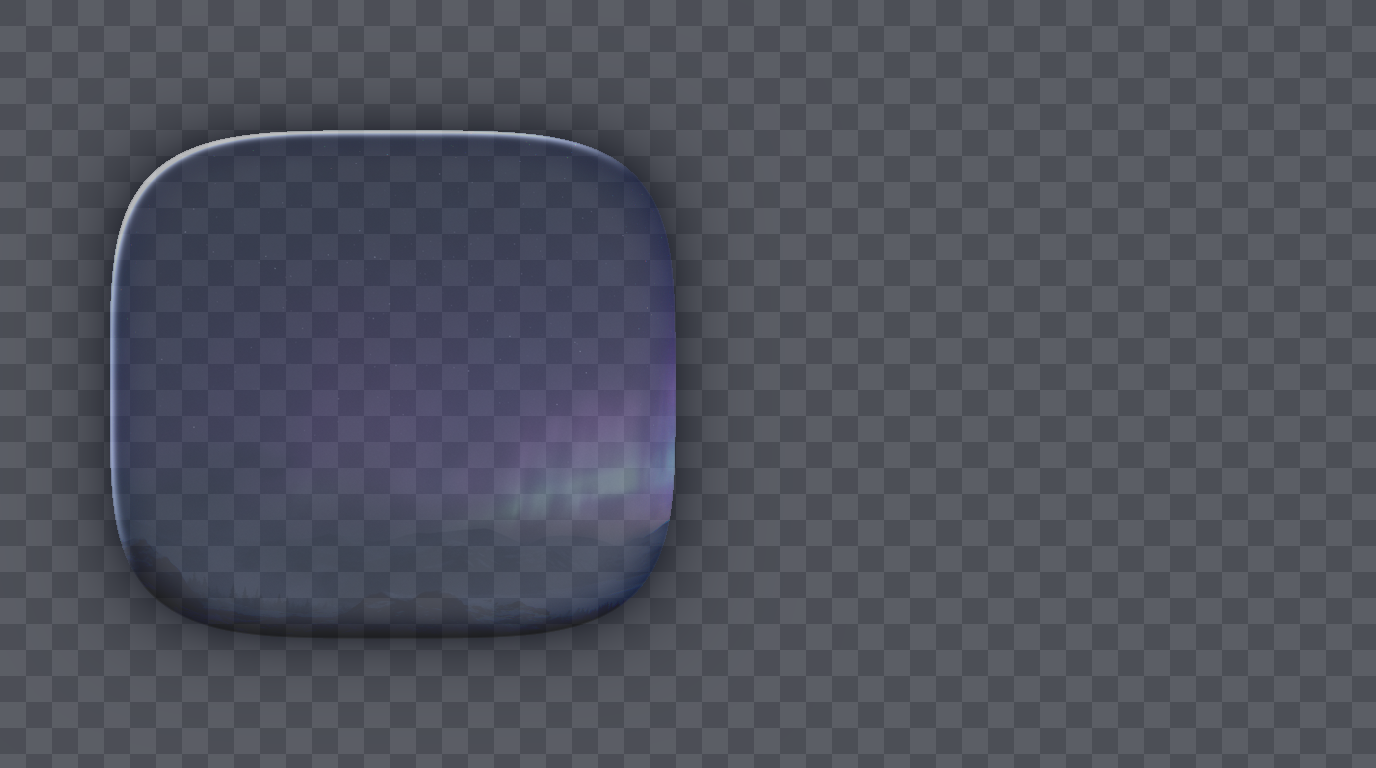
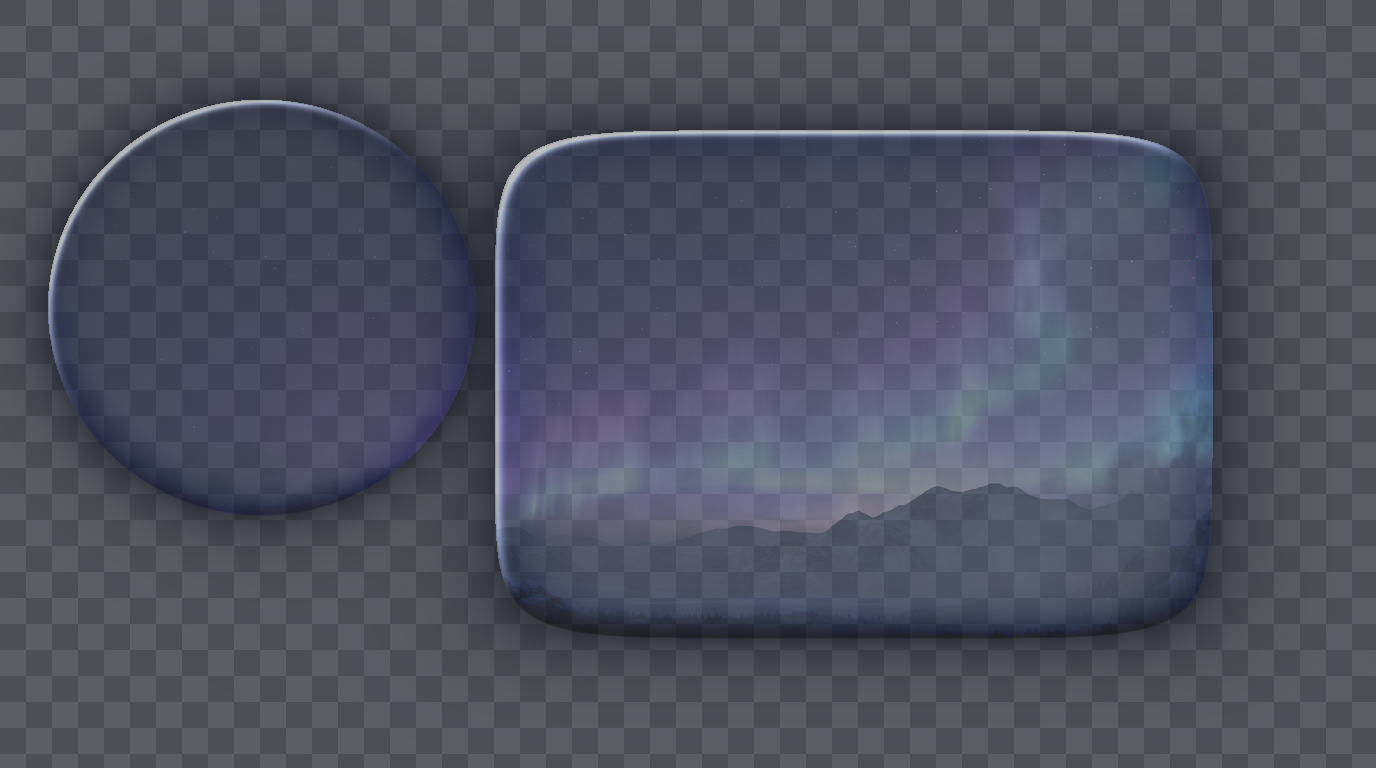
Вылет при входе в мир и стекло большего размера под новую раскладку
Вылет: найдена настоящая причина, а не «защита от всего».
  - RenderResources даёт ОДИН общий буфер на все типы отрисовки, а
    ParticleSystem за кадр запрашивал до шести разных текстур и не закрывал
    ни одной порции. В меню частиц нет — поэтому падало именно в мире.
    Теперь каждая форма закрывается своей порцией endBatch(type).
  - WorldRenderDispatcher не был защищён вовсе (в отличие от миксинов),
    поэтому любое исключение уходило в событие Fabric и роняло кадр.
    Теперь стек матриц возвращается в finally, порция закрывается всегда,
    а буфер при сбое выбрасывается, чтобы следующий кадр начал с чистого.
  - Повторяющийся сбой не забивает журнал: после 12 раз подряд эффекты
    в мире отключаются, о чём пишется один раз.

Стекло (tools/make_glass.py): две формы вместо одной, обе крупнее.
  Слева — овал под логотип (суперэллипс n=2, то есть чистый эллипс),
  по центру — скруглённый прямоугольник под все надписи (n=7).
  Преломление по-прежнему считается по полю расстояний: 0.000 в середине
  против 0.97 у кромки, прозрачность 0.26-0.28 в середине против 0.48-0.50
  у кромки.

Changed region(s): [[0.0312, 0.125, 0.9062, 0.8438], [0.0625, 0.1562, 0.1562, 0.2812]]

diff --git a/aurora/tools/make_glass.py b/aurora/tools/make_glass.py
@@ -23,12 +23,16 @@ from PIL import Image
 
 W, H = 1376, 768
 
-# ── геометрия пластины ──────────────────────────────────────────────
-CX, CY = 0.285 * W, 0.500 * H          # центр: слева, там будет заголовок
-AX, AY = 0.205 * W, 0.330 * H          # полуоси
-SUPER = 4.0                            # 2 = эллипс, 4 = мягкий «сквиркл»,
-                                       # больше 6 — уже прямоугольник.
-                                       # Берём 4: формы органичные, без углов.
+# ── геометрия: две стеклянные формы ─────────────────────────────────
+# Слева — овал под логотип (SUPER=2 ровно эллипс, «более овальная форма»),
+# по центру — крупный скруглённый прямоугольник под все надписи.
+# Обе заметно больше прежних: так и просили.
+SHAPES = [
+    dict(name="logo",  cx=0.190 * W, cy=0.400 * H, ax=0.155 * W, ay=0.270 * H,
+         super_n=2.0, bevel=46.0, strength=52.0, base=0.26, edge=0.58),
+    dict(name="panel", cx=0.620 * W, cy=0.500 * H, ax=0.260 * W, ay=0.330 * H,
+         super_n=7.0, bevel=54.0, strength=58.0, base=0.28, edge=0.62),
+]
 
 BEVEL = 40.0        # толщина кромки, где стекло загибается
 STRENGTH = 46.0     # сила преломления в пикселях у самой кромки
@@ -41,7 +45,7 @@ GLOW = 13.0         # мягкое свечение сразу за ободко
 SHADOW = 26.0       # размах внешней тени
 
 
-def squircle_sdf(x, y, cx, cy, ax, ay, n=SUPER):
+def squircle_sdf(x, y, cx, cy, ax, ay, n=4.0):
     """Поле расстояний: <0 внутри, 0 на кромке, >0 снаружи."""
     u = np.abs((x - cx) / ax)
     v = np.abs((y - cy) / ay)
@@ -66,68 +70,66 @@ def sample(bg, xs, ys):
     return bg[yi, xi, :]
 
 
-def glass_over(bg, offsets_scale=1.0):
-    """Положить стеклянную пластину на фон bg (float 0..1). Возвращает
-    итоговую картинку и отдельный слой стекла с прозрачностью."""
-    yy, xx = np.mgrid[0:H, 0:W].astype(np.float64)
-    d = squircle_sdf(xx, yy, CX, CY, AX, AY)
+def glass_shape(bg, shape):
+    """Одна стеклянная форма поверх фона. Возвращает её цвет и прозрачность."""
+    cx, cy = shape["cx"], shape["cy"]
+    ax, ay = shape["ax"], shape["ay"]
+    bevel, strength = shape["bevel"], shape["strength"]
+    base_alpha, edge_alpha = shape["base"], shape["edge"]
 
-    # Нормаль к поверхности: градиент поля расстояний.
+    yy, xx = np.mgrid[0:H, 0:W].astype(np.float64)
+    d = squircle_sdf(xx, yy, cx, cy, ax, ay, shape["super_n"])
+
     gy, gx = np.gradient(d)
     nx, ny = normalize(gx, gy)
+    edge = np.clip((bevel + d) / bevel, 0.0, 1.0) ** 1.7
 
-    # Вес кромки: 1 на самом краю, 0 в глубине плоской середины.
-    edge = np.clip((BEVEL + d) / BEVEL, 0.0, 1.0) ** 1.7
+    off_x = nx * edge * strength
+    off_y = ny * edge * strength
 
-    off_x = nx * edge * STRENGTH * offsets_scale
-    off_y = ny * edge * STRENGTH * offsets_scale
-
-    # Преломление: каждый канал со своим сдвигом — отсюда цветная кайма.
     out = np.zeros_like(bg)
     for channel, spread in enumerate((1.0 + CHROMA, 1.0, 1.0 - CHROMA)):
         out[:, :, channel] = sample(bg, xx + off_x * spread,
                                     yy + off_y * spread)[:, :, channel]
 
-    # Прозрачность: у кромки стекло плотнее, в середине — чище.
-    inside = np.clip(-d / 1.6 + 0.5, 0.0, 1.0)          # сглаженная маска
-    alpha = (BASE_ALPHA + (EDGE_ALPHA - BASE_ALPHA) * edge) * inside
+    inside = np.clip(-d / 1.6 + 0.5, 0.0, 1.0)
+    alpha = (base_alpha + (edge_alpha - base_alpha) * edge) * inside
 
-    # Мягкий подсвет и лёгкая подмесь цвета — стекло не бывает нейтральным.
     out[:, :, 0] = out[:, :, 0] * 1.02 + 0.020
     out[:, :, 1] = out[:, :, 1] * 1.02 + 0.026
     out[:, :, 2] = out[:, :, 2] * 1.05 + 0.062
 
-    # Тонкий светлый ободок там, где кромка смотрит на свет (сверху-слева).
     light_x, light_y = -0.62, -0.78
     facing = np.clip(nx * light_x + ny * light_y, 0.0, 1.0) ** 1.6
     rim = np.exp(-(d ** 2) / (2.0 * RIM_SIGMA ** 2)) * facing
     out += rim[:, :, None] * np.array([0.85, 0.90, 1.00]) * RIM_GAIN
-    # Сразу за ободком, внутрь, — мягкое свечение: так у стекла читается
-    # толщина, а не просто нарисованная линия.
     glow = np.exp(d / GLOW) * (d < 0) * facing * 0.22
     out += glow[:, :, None]
 
-    # Внутренняя тень снизу: толща стекла там толще.
     lower = np.clip(ny, 0.0, 1.0) ** 1.3 * edge
     out -= (lower * 0.16)[:, :, None]
 
-    # Диагональный блик — одна мягкая полоса, не «пластиковая» плёнка.
     sheen = np.clip((xx / W + yy / H) * 1.35 - 0.55, 0.0, 1.0)
     sheen = (sheen ** 3) * (1.0 - edge) * 0.16
     out += sheen[:, :, None]
-
     out = np.clip(out, 0.0, 1.0)
 
-    # Внешняя тень: стекло висит над фоном.
     shadow = np.exp(-np.clip(d, 0.0, None) / SHADOW) * (1.0 - inside) * 0.42
     alpha_out = np.clip(alpha + shadow, 0.0, 1.0)
-    shadow_rgb = np.array([0.02, 0.03, 0.07])
+    rgb = np.where(alpha[:, :, None] > 1e-4, out,
+                   np.array([0.02, 0.03, 0.07]))
+    return rgb, alpha_out
 
-    glass_rgb = np.where(alpha[:, :, None] > 1e-4,
-                         out, shadow_rgb)
 
-    composed = bg * (1.0 - alpha_out[:, :, None]) + glass_rgb * alpha_out[:, :, None]
-    return np.clip(composed, 0.0, 1.0), glass_rgb, alpha_out, d, edge
+def glass_over(bg):
+    """Все формы поверх фона. Возвращает итог и слои по отдельности."""
+    composed = bg.copy()
+    layers = []
+    for shape in SHAPES:
+        rgb, alpha = glass_shape(bg, shape)
+        composed = composed * (1.0 - alpha[:, :, None]) + rgb * alpha[:, :, None]
+        layers.append((shape["name"], rgb, alpha))
+    return np.clip(composed, 0.0, 1.0), layers
 
 
 def save(array, path, alpha=None):
@@ -143,43 +145,35 @@ def main():
     base = Image.open("/tmp/menu_base.png").convert("RGB").resize((W, H),
                                                                   Image.LANCZOS)
     bg = np.asarray(base, dtype=np.float64) / 255.0
-
-    composed, glass_rgb, glass_alpha, d, edge = glass_over(bg)
-
-    # 1) Как просил пользователь: серый фон, а поверх — стекло, у которого
-    #    видно бока и прозрачность. Именно так прозрачность и проверяют.
-    grey = np.full((H, W, 3), 0.0)
-    yy, xx = np.mgrid[0:H, 0:W].astype(np.float64)
-    # мягкая серая «студийная» подложка с лёгкой шахматкой: по ней сразу
-    # видно, что стекло и правда прозрачное, а не серое.
-    checker = (((xx // 26).astype(int) + (yy // 26).astype(int)) % 2) * 0.06
-    grey[:, :, 0] = 0.30 + checker
-    grey[:, :, 1] = 0.31 + checker
-    grey[:, :, 2] = 0.34 + checker
-    grey_composed = grey * (1.0 - glass_alpha[:, :, None]) + \
-        glass_rgb * glass_alpha[:, :, None]
+    composed, layers = glass_over(bg)
 
[1 lines of base64/hex data omitted]
-    save(composed, gui + "/menu_backdrop.png")
-    save(glass_rgb, gui + "/menu_glass.png", alpha=glass_alpha)
-    save(grey_composed, "/home/user/aurora/docs/menu-glass-preview.png")
+    save(bg, gui + "/menu_backdrop.png")
+    for name, rgb, alpha in layers:
+        save(rgb, gui + "/menu_glass_" + name + ".png", alpha=alpha)
 
-    # ── проверка числами ────────────────────────────────────────────
-    inside_mask = d < -6
-    print("=== проверка стекла ===")
-    print(f"пикселей внутри пластины      : {int(inside_mask.sum())}")
-    print(f"преломление в середине (макс) : {float(edge[inside_mask].max()):.4f}  "
-          f"(должно быть около нуля)")
-    rim_band = (np.abs(d) < 4)
-    print(f"преломление у кромки (средн)  : {float(edge[rim_band].mean()):.4f}  "
-          f"(должно быть заметно больше)")
-    print(f"прозрачность: середина        : {float(glass_alpha[inside_mask].mean()):.3f}")
-    print(f"прозрачность: кромка          : {float(glass_alpha[rim_band].mean()):.3f}")
-    print(f"прозрачность: снаружи         : {float(glass_alpha[d > SHADOW * 2].mean()):.3f}")
-    centre = composed[int(CY) - 40:int(CY) + 40, int(CX) - 40:int(CX) + 40]
-    edge_px = composed[int(CY), int(CX - AX) + 2:int(CX - AX) + 12]
-    print(f"яркость середина / кромка     : "
-          f"{centre.mean():.3f} / {edge_px.mean():.3f}  (кромка ярче)")
+    # Проверка «на просвет», как её описал пользователь: серый фон, а поверх
+    # стекло — сразу видно и бока, и прозрачность.
+    yy, xx = np.mgrid[0:H, 0:W].astype(np.float64)
+    checker = (((xx // 26).astype(int) + (yy // 26).astype(int)) % 2) * 0.06
+    grey = np.dstack([np.full((H, W), 0.30) + checker,
+                      np.full((H, W), 0.31) + checker,
+                      np.full((H, W), 0.34) + checker])
+    preview = grey.copy()
+    for _, rgb, alpha in layers:
+        preview = preview * (1.0 - alpha[:, :, None]) + rgb * alpha[:, :, None]
+    save(preview, "/home/user/aurora/docs/menu-glass-preview.png")
+
+    print("=== стекло: проверка числами ===")
+    for shape in SHAPES:
+        yy, xx = np.mgrid[0:H, 0:W].astype(np.float64)
+        d = squircle_sdf(xx, yy, shape["cx"], shape["cy"], shape["ax"],
+                         shape["ay"], shape["super_n"])
+        _, alpha = glass_shape(bg, shape)
+        deep, rim = d < -90, np.abs(d) < 3
+        print(f"  {shape['name']:6s} размер {int(2*shape['ax'])}x{int(2*shape['ay'])} | "
+              f"прозрачность середина {alpha[deep].mean():.2f} кромка {alpha[rim].mean():.2f} | "
+              f"внутри {int((d<0).sum())} пикселей")
 
 
 if __name__ == "__main__":

diff --git a/aurora/client/src/main/java/com/aetherglass/client/render/WorldRenderDispatcher.java b/aurora/client/src/main/java/com/aetherglass/client/render/WorldRenderDispatcher.java
@@ -23,6 +23,11 @@ import net.minecraft.world.phys.Vec3;
 public final class WorldRenderDispatcher {
     private static boolean registered;
 
+    /** Счётчик ошибок подряд и признак «хватит»: журнал не должен забиваться. */
+    private static final int MAX_FAILURES = 12;
+    private static int failures;
+    private static boolean giveUp;
+
     private WorldRenderDispatcher() {
     }
 
@@ -40,8 +45,15 @@ public final class WorldRenderDispatcher {
 
     /** Один раз за кадр: часы, контроллер цвета и состояние модулей. */
     private static void updateFrame() {
-        FrameClock.tick();
-        ModuleManager.get().update(FrameClock.deltaSeconds());
+        try {
+            FrameClock.tick();
+            ModuleManager.get().update(FrameClock.deltaSeconds());
+        } catch (Throwable throwable) {
+            // Исключение, выброшенное из события Fabric, уронило бы кадр, а
+            // за ним и всю игру. Наши эффекты такого не стоят: пишем в журнал
+            // и спокойно рисуем дальше.
+            fail("обновление кадра эффектов", throwable);
+        }
     }
 
     /** Частицы рисуются в мире до полупрозрачной геометрии: так они правильно смешиваются. */
@@ -50,32 +62,79 @@ public final class WorldRenderDispatcher {
         if (module == null || !module.isEnabled() || module.system().alive() == 0) {
             return;
         }
+        if (giveUp) {
+            return;
+        }
         MultiBufferSource.BufferSource buffers = RenderResources.acquire();
         if (buffers == null) {
             return;
         }
-        Camera camera = context.gameRenderer().getMainCamera();
         PoseStack pose = context.matrices();
-        Vec3 origin = camera.position();
         pose.pushPose();
-        pose.translate(-origin.x, -origin.y, -origin.z);
-        module.system().render(pose, buffers, camera, module.fadeSeconds(), module.fadeSeconds());
-        pose.popPose();
-        buffers.endBatch();
+        boolean broken = false;
+        try {
+            Camera camera = context.gameRenderer().getMainCamera();
+            Vec3 origin = camera.position();
+            pose.translate(-origin.x, -origin.y, -origin.z);
+            module.system().render(pose, buffers, camera, module.fadeSeconds(), module.fadeSeconds());
+        } catch (Throwable throwable) {
+            broken = true;
+            fail("отрисовка частиц", throwable);
+        } finally {
+            // Стек матриц возвращаем при любом исходе: оставленный в нём
+            // лишний слой сломал бы отрисовку уже следующего кадра, и виноваты
+            // в этом были бы не мы, а выглядело бы как наш вылет.
+            pose.popPose();
+        }
+        if (broken) {
+            // Рисование упало — буфер мог остаться незакрытым. Закрывать его
+            // теперь нельзя, поэтому просто выбрасываем: следующий кадр
+            // создаст чистый.
+            RenderResources.release();
+            return;
+        }
+        try {
+            buffers.endBatch();
+        } catch (Throwable throwable) {
+            RenderResources.release();
+            fail("закрытие порции буфера частиц", throwable);
+        }
     }
 
     /** Подсветка блока под прицелом. */
     private static void renderBlocks(WorldRenderContext context) {
         BlockEffectsModule module = ModuleManager.get().typed("blocks", BlockEffectsModule.class);
-        if (module == null || !module.isEnabled()) {
+        if (module == null || !module.isEnabled() || giveUp) {
             return;
         }
-        Camera camera = context.gameRenderer().getMainCamera();
         PoseStack pose = context.matrices();
-        Vec3 origin = camera.position();
         pose.pushPose();
-        pose.translate(-origin.x, -origin.y, -origin.z);
-        BlockEffectRenderer.render(pose, camera, module);
-        pose.popPose();
+        try {
+            Camera camera = context.gameRenderer().getMainCamera();
+            Vec3 origin = camera.position();
+            pose.translate(-origin.x, -origin.y, -origin.z);
+            BlockEffectRenderer.render(pose, camera, module);
+        } catch (Throwable throwable) {
+            fail("подсветка блока", throwable);
+        } finally {
+            pose.popPose();
+        }
+    }
+
+    /**
+     * Запись об ошибке. Первые несколько пишутся полностью — по ним понятно,
+     * что именно сломалось. Если ошибка повторяется каждый кадр, журнал не
+     * забивается: эффекты просто отключаются, о чём пишется один раз.
+     */
+    private static void fail(String where, Throwable throwable) {
+        failures++;
+        if (failures <= 3) {
+            AuroraLog.error(where, throwable);
+        }
+        if (failures == MAX_FAILURES) {
+            giveUp = true;
+            AuroraLog.error(where + ": повторилось " + MAX_FAILURES +
+                    " раз подряд, эффекты в мире отключены до перезапуска клиента");
+        }
     }
 }

diff --git a/aurora/client/src/main/java/com/aetherglass/client/render/particle/ParticleSystem.java b/aurora/client/src/main/java/com/aetherglass/client/render/particle/ParticleSystem.java
@@ -5,6 +5,7 @@ import com.aetherglass.client.render.util.Easing;
 import net.minecraft.client.Camera;
 import net.minecraft.client.renderer.LightTexture;
 import net.minecraft.client.renderer.MultiBufferSource;
+import net.minecraft.client.renderer.rendertype.RenderType;
 import net.minecraft.client.renderer.rendertype.RenderTypes;
 import net.minecraft.world.phys.Vec3;
 import org.joml.Matrix4f;
@@ -171,16 +172,24 @@ public final class ParticleSystem {
         float upZ = up.z();
 
         // Проход по формам: так буферы переключаются не чаще шести раз за кадр.
+        //
+        // Каждую форму нужно закрыть своей порцией. Общий буфер рассчитан
+        // ровно на один незакрытый тип отрисовки: если попросить второй, не
+        // закрыв первый, игра выбросит исключение — и упадёт весь кадр.
+        // Раньше порции не закрывались вовсе, поэтому в меню (где частиц нет)
+        // всё работало, а в мире — падало.
         ParticleShape[] shapes = ParticleShape.values();
         for (ParticleShape shape : shapes) {
             VertexConsumer consumer = null;
+            RenderType type = null;
             for (int index = 0; index < this.alive; index++) {
                 Particle particle = this.pool[index];
                 if (particle.shape != shape) {
                     continue;
                 }
                 if (consumer == null) {
-                    consumer = buffers.getBuffer(RenderTypes.entityTranslucent(shape.texture()));
+                    type = RenderTypes.entityTranslucent(shape.texture());
+                    consumer = buffers.getBuffer(type);
                 }
                 float progress = particle.age / particle.life;
                 float appear = fadeInSeconds > 0.0F
@@ -220,6 +229,9 @@ public final class ParticleSystem {
                         .setUv(1.0F, 1.0F).setColor(color).setLight(LightTexture.FULL_BRIGHT);
                 consumer.addVertex(matrix, px - rx + ux, py - ry + uy, pz - rz + uz)
                         .setUv(0.0F, 1.0F).setColor(color).setLight(LightTexture.FULL_BRIGHT);
+            }
+            if (type != null) {
+                buffers.endBatch(type);
             }
         }
     }
